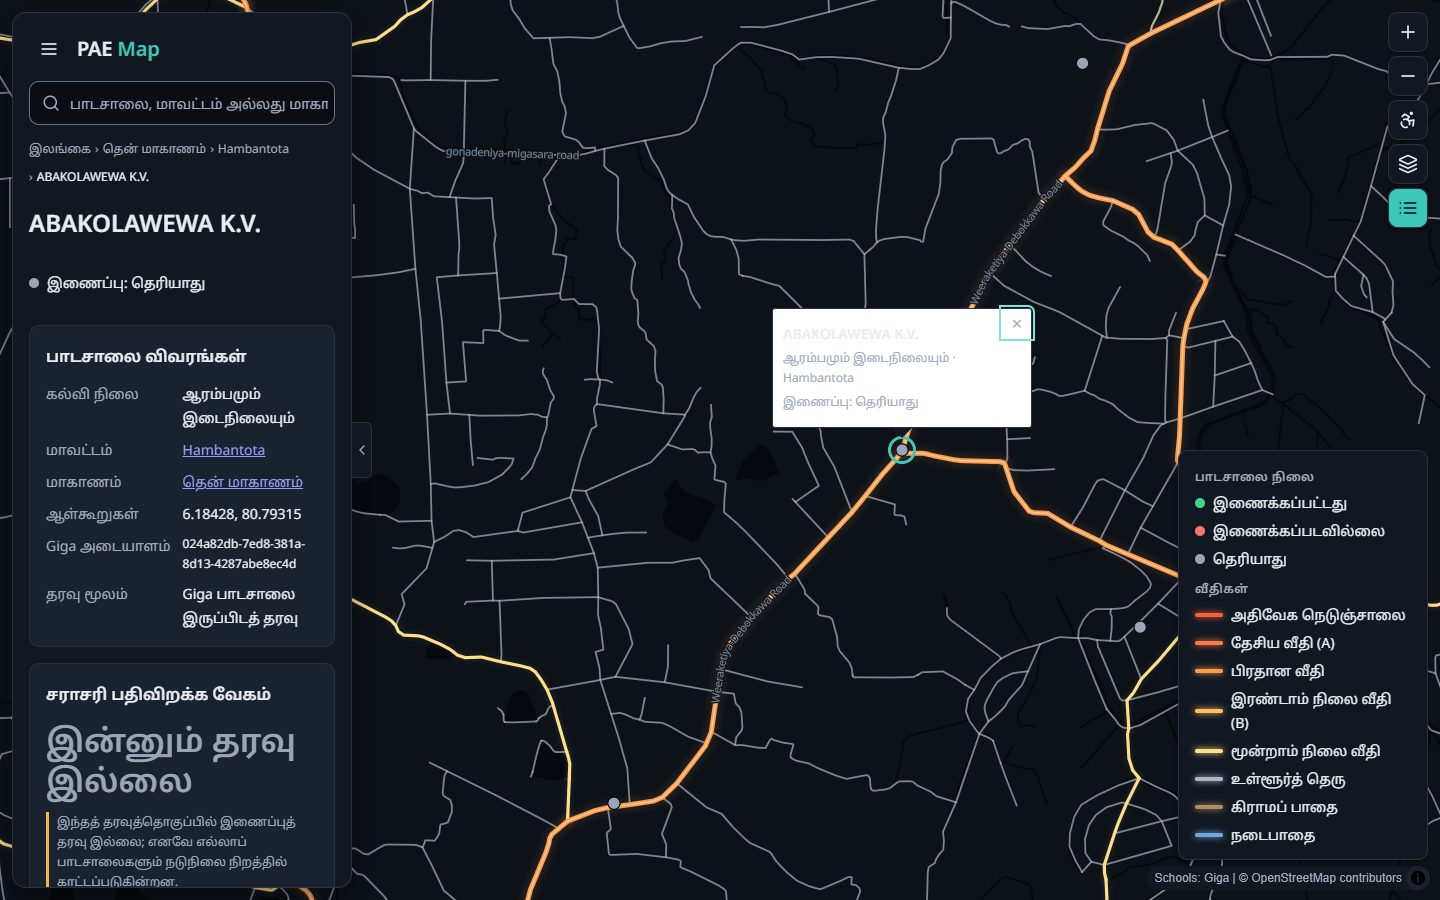
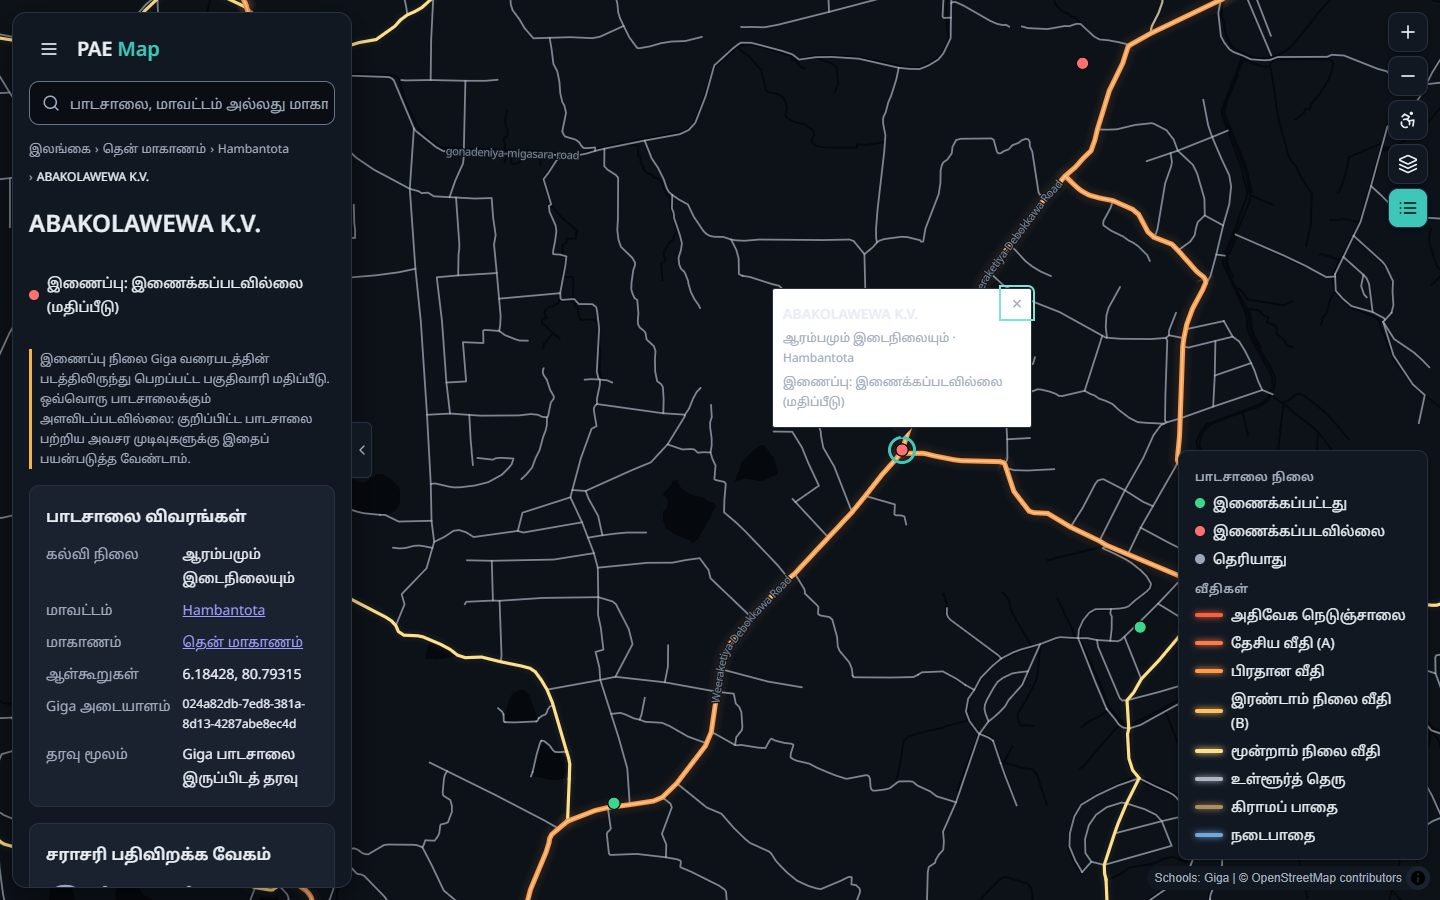
feat: colour schools by an estimated connection status per district
Real per-school connectivity is only in Giga's private APIs. Apply the
project owner's visual estimate of connected schools per region to each
district (3,895 of 10,000 schools, 39 %, in line with the island total
seen on Giga) through an optional data/connectivity.json, so the map,
KPIs, school details and popup show connected / not connected. Label it
"estimate" everywhere with a warning not to use it for decisions about
a specific school; real data can replace the file without app changes.
Also fix the map popup, whose colours were overridden by MapLibre's CSS.

diff --git a/app/src/components/PanelViews.tsx b/app/src/components/PanelViews.tsx
@@ -56,15 +56,17 @@ function ConnectivityCard(props: { schools: School[] }) {
   const connected = props.schools.filter((s) => s.connectivity === 'connected').length;
   const withSpeed = props.schools.filter((s) => s.downloadMbps?.length).length;
   const hasData = props.schools.some((s) => s.connectivity !== 'unknown');
+  const estimate = dataset.value?.connectivity?.kind === 'estimate';
   return (
     <>
       <section class="card" aria-labelledby="kpi-h">
         <h3 id="kpi-h">{t('kpi.title')}</h3>
         <div class="kpis">
           <div class="kpi"><b data-testid="kpi-total">{fmtNumber(props.schools.length)}</b><span>{t('kpi.onMap')}</span></div>
-          <div class="kpi"><b>{hasData ? fmtNumber(connected) : '–'}</b><span>{t('kpi.connected')}</span></div>
-          <div class="kpi"><b>{hasData ? fmtNumber(withSpeed) : '–'}</b><span>{t('kpi.withSpeed')}</span></div>
+          <div class="kpi"><b data-testid="kpi-connected">{hasData ? `${estimate ? '≈' : ''}${fmtNumber(connected)}` : '–'}</b><span>{t('kpi.connected')}{estimate ? ` (${t('status.estimated')})` : ''}</span></div>
+          <div class="kpi"><b>{withSpeed ? fmtNumber(withSpeed) : '–'}</b><span>{t('kpi.withSpeed')}</span></div>
         </div>
+        {estimate && <p class="notice">{t('notice.estimate')}</p>}
       </section>
       <section class="card" aria-labelledby="speed-h">
         <h3 id="speed-h">{t('speed.title')}</h3>
@@ -206,7 +208,8 @@ export function SchoolView(props: { id: string }) {
   return (
     <>
       <h1 class="title">{s.name}</h1>
-      <p class="status"><StatusDot status={s.connectivity} />{t('school.status')}: {t(`status.${s.connectivity}` as Key)}</p>
+      <p class="status"><StatusDot status={s.connectivity} />{t('school.status')}: {t(`status.${s.connectivity}` as Key)}{ds.connectivity?.kind === 'estimate' && s.connectivity !== 'unknown' ? ` (${t('status.estimated')})` : ''}</p>
+      {ds.connectivity?.kind === 'estimate' && <p class="notice">{t('notice.estimate')}</p>}
       <section class="card" aria-labelledby="sd-h">
         <h3 id="sd-h">{t('school.details')}</h3>
         <dl class="dl">
@@ -221,7 +224,6 @@ export function SchoolView(props: { id: string }) {
       <section class="card" aria-labelledby="speed-s">
         <h3 id="speed-s">{t('speed.title')}</h3>
         <div class="metric">{t('speed.noData')}</div>
-        <p class="notice">{t('notice.noConnectivity')}</p>
       </section>
       <div class="btn-row">
         <button class="btn" onClick={() => flyTo({ center: [s.lon, s.lat], zoom: 15 })}><Crosshair size={18} aria-hidden="true" />{t('school.zoomTo')}</button>

diff --git a/app/src/styles/app.css b/app/src/styles/app.css
@@ -80,9 +80,9 @@ h1, h2, h3, h4 { margin: 0; }
 .search-box input { flex: 1; min-width: 0; height: 100%; border: 0; background: transparent; outline: none; color: var(--text); }
 .search-box input::placeholder { color: var(--text-muted); }
 .search-box input::-webkit-search-cancel-button { display: none; } /* we render our own clear button */
-.maplibregl-popup-content { background: var(--surface); color: var(--text); border: 1px solid var(--border); border-radius: var(--radius-md); box-shadow: var(--shadow-pop); padding: var(--space-3) var(--space-4); font-family: var(--font-sans); }
-.maplibregl-popup-tip { border-top-color: var(--surface) !important; border-bottom-color: var(--surface) !important; }
-.maplibregl-popup-close-button { color: var(--text-muted); font-size: 18px; width: 28px; height: 28px; }
+.maplibregl-map .maplibregl-popup-content { background: var(--surface); color: var(--text); border: 1px solid var(--border); border-radius: var(--radius-md); box-shadow: var(--shadow-pop); padding: var(--space-3) var(--space-4); font-family: var(--font-sans); }
+.maplibregl-map .maplibregl-popup-tip { border-top-color: var(--surface) !important; border-bottom-color: var(--surface) !important; }
+.maplibregl-map .maplibregl-popup-close-button { color: var(--text-muted); font-size: 18px; width: 28px; height: 28px; }
 .pop { display: grid; gap: var(--space-1); max-width: 240px; }
 .pop strong { font-size: var(--font-sm-size); overflow-wrap: anywhere; }
 .pop span { color: var(--text-muted); font-size: var(--font-xs-size); }

diff --git a/app/src/i18n/ta.ts b/app/src/i18n/ta.ts
@@ -27,6 +27,8 @@ export const ta: Record<Key, string> = {
   'kpi.withSpeed': 'வேகத் தரவுடன்',
   'speed.title': 'சராசரி பதிவிறக்க வேகம்',
   'speed.noData': 'இன்னும் தரவு இல்லை',
+  'notice.estimate': 'இணைப்பு நிலை Giga வரைபடத்தின் படத்திலிருந்து பெறப்பட்ட பகுதிவாரி மதிப்பீடு. ஒவ்வொரு பாடசாலைக்கும் அளவிடப்படவில்லை: குறிப்பிட்ட பாடசாலை பற்றிய அவசர முடிவுகளுக்கு இதைப் பயன்படுத்த வேண்டாம்.',
+  'status.estimated': 'மதிப்பீடு',
   'notice.noConnectivity': 'இந்தத் தரவுத்தொகுப்பில் இணைப்புத் தரவு இல்லை; எனவே எல்லாப் பாடசாலைகளும் நடுநிலை நிறத்தில் காட்டப்படுகின்றன.',
   'level.title': 'கல்வி நிலை',
   'level.primary': 'ஆரம்பம்',

diff --git a/app/src/data/schools.ts b/app/src/data/schools.ts
@@ -1,4 +1,4 @@
-import type { Dataset, Level, School, SchoolsFile } from './types';
+import type { ConnectivityFile, Dataset, Level, School, SchoolsFile } from './types';
 
 const LEVELS: Level[] = ['primary', 'secondary', 'primary_secondary'];
 
@@ -28,7 +28,19 @@ export function parseSchools(file: SchoolsFile): Dataset {
 export async function loadSchools(baseUrl: string): Promise<Dataset> {
   const res = await fetch(`${baseUrl}data/schools.json`);
   if (!res.ok) throw new Error(`schools.json: HTTP ${res.status}`);
-  return parseSchools(await res.json());
+  const ds = parseSchools(await res.json());
+  // Optional connectivity layer; without it every school stays "unknown".
+  try {
+    const c = await fetch(`${baseUrl}data/connectivity.json`);
+    if (c.ok) applyConnectivity(ds, await c.json());
+  } catch { /* offline and never cached, or absent */ }
+  return ds;
+}
+
+export function applyConnectivity(ds: Dataset, file: ConnectivityFile) {
+  if (file.version !== 1 || !file.status) return;
+  for (const s of ds.schools) s.connectivity = file.status[s.id] ?? 'unknown';
+  ds.connectivity = { kind: file.kind, method: file.method, generatedAt: file.generatedAt };
 }
 
 export function toGeoJSON(schools: School[]): GeoJSON.FeatureCollection<GeoJSON.Point> {

diff --git a/app/src/i18n/si.ts b/app/src/i18n/si.ts
@@ -27,6 +27,8 @@ export const si: Record<Key, string> = {
   'kpi.withSpeed': 'වේග දත්ත සහිත',
   'speed.title': 'සාමාන්ය බාගැනීමේ වේගය',
   'speed.noData': 'තවම දත්ත නැත',
+  'notice.estimate': 'සම්බන්ධතා තත්ත්වය Giga සිතියමේ රූපයකින් ලබාගත් ප්රදේශ අනුව ඇස්තමේන්තුවකි. එය එක් එක් පාසල සඳහා මැන නැත: නිශ්චිත පාසලක් ගැන හදිසි තීරණ සඳහා එය භාවිතා නොකරන්න.',
+  'status.estimated': 'ඇස්තමේන්තු',
   'notice.noConnectivity': 'මෙම දත්ත කට්ටලයේ සම්බන්ධතා දත්ත නොමැති බැවින්, සියලු පාසල් මධ්යස්ථ වර්ණයකින් පෙන්වයි.',
   'level.title': 'අධ්යාපන මට්ටම',
   'level.primary': 'ප්රාථමික',

diff --git a/app/src/map/MapView.tsx b/app/src/map/MapView.tsx
@@ -110,7 +110,8 @@ export function MapView() {
       const meta = document.createElement('span');
       meta.textContent = [t(`level.${s.level}` as Key), s.district && areaName(s.district)].filter(Boolean).join(' · ');
       const st = document.createElement('span');
-      st.textContent = `${t('school.status')}: ${t(`status.${s.connectivity}` as Key)}`;
+      const est = ds!.connectivity?.kind === 'estimate' && s.connectivity !== 'unknown' ? ` (${t('status.estimated')})` : '';
+      st.textContent = `${t('school.status')}: ${t(`status.${s.connectivity}` as Key)}${est}`;
       box.append(name, meta, st);
       popup.setLngLat([s.lon, s.lat]).setDOMContent(box).addTo(map);
     });

diff --git a/app/src/data/types.ts b/app/src/data/types.ts
@@ -41,6 +41,17 @@ export interface Dataset {
   districts: AdminArea[];
   schools: School[];
   byId: Map<string, School>;
+  /** Where the connectivity status comes from; undefined = no data (all "unknown"). */
+  connectivity?: { kind: 'estimate' | 'measured'; method: string; generatedAt: string };
+}
+
+/** data/connectivity.json (pipeline/estimate_connectivity.py, or a real provider later). */
+export interface ConnectivityFile {
+  version: 1;
+  kind: 'estimate' | 'measured';
+  method: string;
+  generatedAt: string;
+  status: Record<string, Connectivity>;
 }
 
 /** Plug point for private Giga connectivity data (not available yet). */

diff --git a/app/src/i18n/en.ts b/app/src/i18n/en.ts
@@ -25,6 +25,8 @@ export const en = {
   'kpi.withSpeed': 'with speed data',
   'speed.title': 'Average download speed',
   'speed.noData': 'No data yet',
+  'notice.estimate': 'Connection status is an estimate per area, read from an image of the Giga map. It was not measured school by school: do not use it to make emergency decisions about a specific school.',
+  'status.estimated': 'estimate',
   'notice.noConnectivity': 'Connectivity data is not available for this dataset, so every school is shown in a neutral colour.',
   'level.title': 'Education level',
   'level.primary': 'Primary',

diff --git a/pipeline/estimate_connectivity.py b/pipeline/estimate_connectivity.py
@@ -1,0 +1,103 @@
+"""Assign an ESTIMATED connectivity status to every school, per district.
+
+    python -I pipeline/estimate_connectivity.py [--data-dir data]
+
+Input:  <data-dir>/schools.json (from build_schools.py)
+Output: <data-dir>/connectivity.json  {method, generatedAt, rates, status: {gigaId: "connected"|"not_connected"}}
+
+WHY THIS IS AN ESTIMATE
+Per-school connectivity is only available through Giga's private APIs, which this project
+has no access to. The project owner provided a visual estimate of the share of connected
+schools per region of Sri Lanka, read from an image of the public Giga map (margin of error
+about ±10-15 points; dense areas may over-represent "not connected"). The rates below are
+the mid-points of those ranges. Within each district, schools are ordered by a hash of
+their Giga ID and the first round(rate × n) are marked connected, so the result is
+stable between runs and matches each district's rate exactly. It says NOTHING reliable
+about any individual school. Replace with real data as soon as the Giga "School profile"
+API is available.
+"""
+import argparse
+import datetime as dt
+import hashlib
+import json
+import pathlib
+import sys
+
+# Share of connected schools per district (mid-point of the owner's regional estimate).
+RATES = {
+    # Extremo norte (península de Jaffna): 60-65 % connected
+    "Jaffna": 0.62,
+    # Norte interior (Vanni): ~30 %
+    "Kilinochchi": 0.30, "Mullaitivu": 0.30, "Vavuniya": 0.30,
+    # Costa noroeste: 55-60 %
+    "Mannar": 0.57, "Puttalam": 0.57,
+    # Noreste: ~35 %
+    "Trincomalee": 0.35,
+    # Centro-norte: 30-35 %
+    "Anuradhapura": 0.32, "Polonnaruwa": 0.32,
+    # Este: ~40 %
+    "Batticaloa": 0.40, "Ampara": 0.40,
+    # Centro montañoso: ~35 %
+    "Kandy": 0.35, "Matale": 0.35, "Nuwara Eliya": 0.35,
+    # Oeste costero: 45-50 %
+    "Gampaha": 0.47, "Colombo": 0.47, "Kalutara": 0.47,
+    # Suroeste interior: 25-30 %
+    "Ratnapura": 0.27, "Kegalle": 0.27,
+    # Galle: interior counted in the south-west (27 %), coast in the south (40 %): mid-point. ASSUMPTION.
+    "Galle": 0.33,
+    # Sur y sureste: ~40 %
+    "Matara": 0.40, "Hambantota": 0.40, "Monaragala": 0.40,
+    # Not covered by the estimate. ASSUMPTIONS from the neighbouring regions:
+    "Kurunegala": 0.40,  # between the north-west coast (57 %) and the central hills (35 %)
+    "Badulla": 0.37,     # between the central hills (35 %) and the south-east (40 %)
+}
+DEFAULT_RATE = 0.40  # schools without a district: the island-wide estimate (40-45 %)
+
+
+def key(gid: str) -> str:
+    return hashlib.sha256(gid.encode()).hexdigest()
+
+
+def main():
+    ap = argparse.ArgumentParser()
+    ap.add_argument("--data-dir", default="data")
+    data = pathlib.Path(ap.parse_args().data_dir).resolve()
+    src = data / "schools.json"
+    if not src.exists():
+        sys.exit(f"ERROR: {src} missing; run pipeline/build_schools.py first")
+    s = json.loads(src.read_text(encoding="utf-8"))
+    names = [d["name"]["en"] for d in s["districts"]]
+    missing = [n for n in names if n not in RATES]
+    if missing:
+        sys.exit(f"ERROR: no rate for districts {missing}")
+
+    groups: dict[str, list[str]] = {}
+    for row in s["schools"]:
+        gid, d = row[0], row[6]
+        groups.setdefault(names[d] if d >= 0 else "", []).append(gid)
+
+    status, summary = {}, {}
+    for district, ids in groups.items():
+        rate = RATES.get(district, DEFAULT_RATE)
+        ids = sorted(ids, key=key)
+        n_conn = round(rate * len(ids))
+        for i, gid in enumerate(ids):
+            status[gid] = "connected" if i < n_conn else "not_connected"
+        summary[district or "(none)"] = {"schools": len(ids), "rate": rate, "connected": n_conn}
+
+    total = len(status)
+    conn = sum(v == "connected" for v in status.values())
+    out = {
+        "version": 1,
+        "kind": "estimate",
+        "method": "Regional visual estimate of the share of connected schools (project owner, from an image of the public Giga map, ±10-15 points), applied per district; schools ordered by SHA-256 of the Giga ID. Not measured per school.",
+        "generatedAt": dt.datetime.now(dt.timezone.utc).replace(microsecond=0).isoformat().replace("+00:00", "Z"),
+        "rates": summary,
+        "status": status,
+    }
+    (data / "connectivity.json").write_text(json.dumps(out, ensure_ascii=False, separators=(",", ":")), encoding="utf-8")
+    print(f"connectivity.json: {total} schools, {conn} connected ({conn / total:.1%}), {total - conn} not connected")
+
+
+if __name__ == "__main__":
+    main()

diff --git a/README.md b/README.md
@@ -146,6 +146,7 @@ powershell -ExecutionPolicy Bypass -File pipeline/build-roads.ps1   # tools + PB
 powershell -ExecutionPolicy Bypass -File pipeline/build-base.ps1    # data/base.pmtiles: inland water, rivers, places (about 20 s)
 python -m pip install -r pipeline/requirements.txt
 python -I pipeline/build_schools.py --data-dir data                 # data/schools.json, land.json, admin.json (about 30 s)
+python -I pipeline/estimate_connectivity.py --data-dir data         # data/connectivity.json: ESTIMATED status per district (optional)
 cd app; npm run data                                                # copy into the app
 ```
 
@@ -204,7 +205,8 @@ The schema is `pipeline/roads.yml`; the last gate results are in
 - Only page 1 of 2 of the Sri Lanka schools export is in `data/` (10,000 of ~10,100 schools). Download page 2 from the Giga portal into `data/`; the build merges every `School_report_*.csv`.
 - Sinhala/Tamil map labels: MapLibre cannot shape these scripts, so map labels use English names. All other UI text is fully translated.
 - Sinhala and Tamil UI texts are drafts written by the developer. They need review by native speakers before release.
-- Without connectivity data, 4 must-have features from the Giga recon are blocked: speed colours, week navigator, speed chart and legend status filters (see `replica/01-recon/features.csv`).
+- **School connection status is an estimate, not measured data.** Real per-school status is only in Giga's private APIs. `pipeline/estimate_connectivity.py` applies the project owner's visual estimate of the share of connected schools per region (read from an image of the Giga map, ±10-15 points) to each district: 3,895 of 10,000 schools (39 %) are marked connected. The app labels it "estimate" everywhere. It must not be used for decisions about a specific school. Replace `data/connectivity.json` with real data when the Giga "School profile" API is available; the app does not need changes.
+- Speed data is still missing, so 3 must-have features from the Giga recon are blocked: speed colours, week navigator and speed chart (see `replica/01-recon/features.csv`).
 - Offline maps need OPFS with `createWritable` (Chrome, Edge, Android Chrome, Firefox). Safari shows "cannot store maps" and still works online.
 - The JS bundle is 906 KB raw / 255 KB gzip, mostly MapLibre. Performance on 3G is measured in phase 5.
 - Recon screenshots of Giga are kept locally in `replica/01-recon/screens/` and are gitignored (third-party content, reference only). Regenerate them by re-running the recon (phase 1A).
